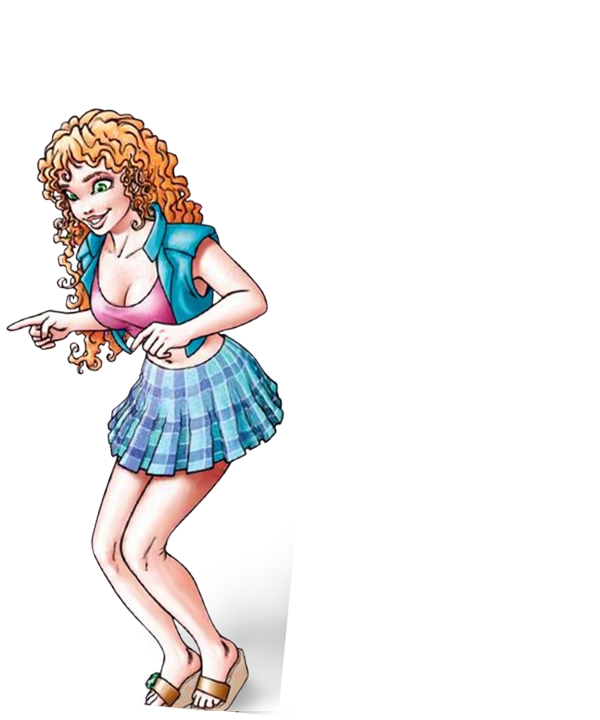
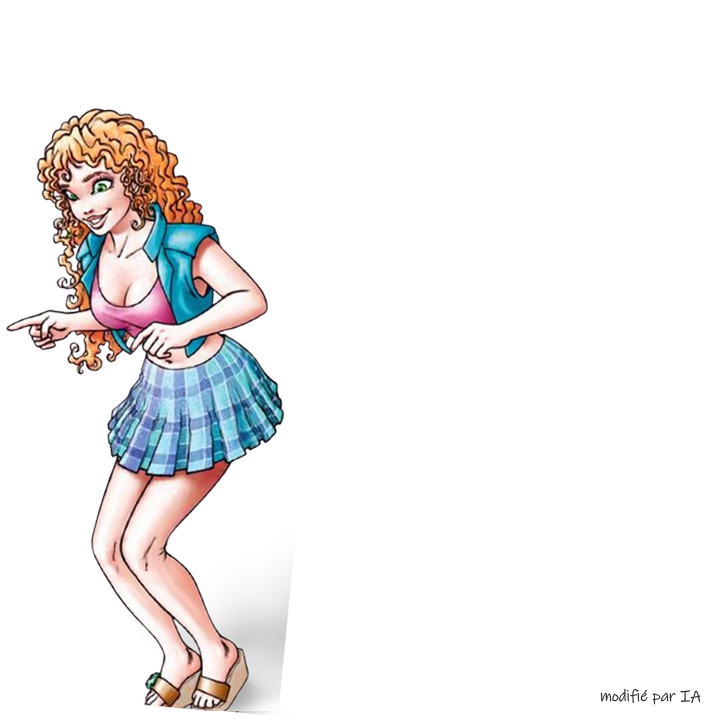
Amélioration du tutoriel
- annotation des images originales ou générés par IA
- modification des textes
- traductions
- compteur de téléchargements

Changed region(s): [[0.0, 0.1528, 0.48, 1.0], [0.84, 0.9472, 0.99, 0.9778]]

diff --git a/Languages/eng.ts b/Languages/eng.ts
@@ -22,21 +22,9 @@
 <context>
     <name>ApikeyDialog</name>
     <message>
-        <source>Get an API Key</source>
-        <translation type="vanished">Get an API Key</translation>
-    </message>
-    <message>
-        <source>An API key can be obtained from a map provider (thunderforest, mapbox, esri...) as follows:&lt;br/&gt;</source>
-        <translation type="vanished">An API key can be obtained from a map provider (thunderforest, mapbox, esri...) as follows:&lt;br/&gt;</translation>
-    </message>
-    <message>
         <location filename="../Sources/Qml/Dialogs/ApikeyDialog.qml" line="23"/>
         <source>An API key can be obtained from a map provider (thunderforest, mapbox, esri...) as follows:</source>
         <translation>An API key can be obtained from a map provider (thunderforest, mapbox, esri...) as follows:</translation>
-    </message>
-    <message>
-        <source>- Go to the website.&lt;br/&gt;</source>
-        <translation type="vanished">- Go to the website.&lt;br/&gt;</translation>
     </message>
     <message>
         <location filename="../Sources/Qml/Dialogs/ApikeyDialog.qml" line="12"/>
@@ -131,10 +119,6 @@
         <source>- &lt;a href=&apos;https://bellaminettes.com/&apos;&gt;Bruno Bellamy&lt;/a&gt; for the pretty instructor of the tutorial.&lt;br/&gt;  (Temporarily without his permission, as long as the software is only used by 2 or 3 people).&lt;br/&gt;</source>
         <translation>- &lt;a href=&apos;https://bellaminettes.com/&apos;&gt;Bruno Bellamy&lt;/a&gt; for the pretty instructor of the tutorial.&lt;br/&gt;  (Temporarily without his permission, as long as the software is only used by 2 or 3 people).&lt;br/&gt;</translation>
     </message>
-    <message>
-        <source>- &lt;a href=&apos;https://bellaminettes.com/&gt;Bruno Bellamy&lt;/a&gt; for the pretty instructor of the tutorial.&lt;br/&gt;Temporarily without his permission, as long as the software is only used by 2 or 3 people.</source>
-        <translation type="vanished">- &lt;a href=&apos;https://bellaminettes.com/&gt;Bruno Bellamy&lt;/a&gt; for the pretty instructor of the tutorial.&lt;br/&gt;Temporarily without his permission, as long as the software is only used by 2 or 3 people.</translation>
-    </message>
 </context>
 <context>
     <name>GlobalTag</name>
@@ -160,10 +144,6 @@
         <location filename="../Sources/Qml/Components/KeywordsRepeater.qml" line="27"/>
         <source>Apply to selection</source>
         <translation>Apply to selection</translation>
-    </message>
-    <message>
-        <source>Assign to selection</source>
-        <translation type="vanished">Apply to selection</translation>
     </message>
 </context>
 <context>
@@ -360,10 +340,6 @@
         <location filename="../Sources/Qml/Vues/PopupSettingsForm.ui.qml" line="216"/>
         <source>Map theme:</source>
         <translation>Map theme:</translation>
-    </message>
-    <message>
-        <source>Do not change EXIF tags</source>
-        <translation type="vanished">Do not change EXIF tags</translation>
     </message>
     <message>
         <location filename="../Sources/Qml/Vues/PopupSettingsForm.ui.qml" line="178"/>
@@ -580,61 +556,6 @@
 <context>
     <name>TutorialPopup</name>
     <message>
-        <source>Welcome to TiPhotoLocator!
-
-This short tutorial will guide you through the main features of the application.</source>
-        <translation type="vanished">Welcome to TiPhotoLocator!
-
-This short tutorial will guide you through the main features of the application.</translation>
-    </message>
-    <message>
-        <source>Open a folder
-
-Use File → Open to select a folder containing your photos.
-The photos will be analyzed and listed.</source>
-        <translation type="vanished">Open a folder
-
-Use &quot;File → Open&quot; to select a folder containing your photos.
-The photos will be analyzed and listed.</translation>
-    </message>
-    <message>
-        <source>Browse the list
-
-The photos are listed on the left side of the window.
-The pin marker indicates the photos that are already geolocalized.</source>
-        <translation type="vanished">Browse the list
-
-The photos are listed on the left side of the window.
-The pin marker indicates the photos that are already geolocalized.</translation>
-    </message>
-    <message>
-        <source>Geotag your photos
-
-Click on the map to assign a location to the selected photo.
-Soon, you will also be able to load a GPX track to geotag photos automatically.</source>
-        <translation type="vanished">Geotag your photos
-
-Click on the map to assign a location to the selected photo.
-Soon, you will also be able to load a GPX track to geotag photos automatically.</translation>
-    </message>
-    <message>
-        <source>Edit metadata of the different tabs
-
-Add keywords, titles, and captions to your photos.
-</source>
-        <translation type="vanished">Edit metadata of the different tabs
-
-Add keywords, titles, and captions to your photos.</translation>
-    </message>
-    <message>
-        <source>Save you changes
-
-A the end, hit Save to write the changes into the EXIF/IPTC data.</source>
-        <translation type="vanished">Save you changes
-
-Finally, hit &quot;Save&quot; to write the changes into the EXIF/IPTC data.</translation>
-    </message>
-    <message>
         <location filename="../Sources/Qml/Dialogs/TutorialPopup.qml" line="48"/>
         <source>Welcome to TiPhotoLocator!
 
@@ -659,24 +580,25 @@ The photos will be analyzed and listed.</translation>
         <source>Browse the list:
 
 The photos are listed on the left side of the window.
-The pin marker indicates the photos that are already geolocalized.</source>
+The red pin marker indicates the photos that are already geolocalized.</source>
         <translation>Browse the list:
 
 The photos are listed on the left side of the window.
-The pin marker indicates the photos that are already geolocalized.</translation>
+The red pin marker indicates the photos that are already geolocalized.</translation>
     </message>
     <message>
         <location filename="../Sources/Qml/Dialogs/TutorialPopup.qml" line="64"/>
         <source>Edit metadata of the different tabs:
 
-Add keywords, tags, and captions to your photos.
-</source>
+Select multiple photos with filter CHECKBOXES, the proximity CIRCLE, or simply with CTRL-CLIC.
+Add keywords, tags, and captions to your photos.</source>
         <translation>Edit metadata of the different tabs:
 
+Select multiple photos with filter CHECKBOXES, the proximity CIRCLE, or simply with CTRL-CLIC.
 Add keywords, tags, and captions to your photos.</translation>
     </message>
     <message>
-        <location filename="../Sources/Qml/Dialogs/TutorialPopup.qml" line="68"/>
+        <location filename="../Sources/Qml/Dialogs/TutorialPopup.qml" line="69"/>
         <source>Geotag your photos:
 
 Click on the map to assign a location to the selected photo.
@@ -687,7 +609,7 @@ Click on the map to assign a location to the selected photo.
 City, country, and location data are proposed automatically.</translation>
     </message>
     <message>
-        <location filename="../Sources/Qml/Dialogs/TutorialPopup.qml" line="74"/>
+        <location filename="../Sources/Qml/Dialogs/TutorialPopup.qml" line="75"/>
         <source>Save you changes!
 
 Finally, hit &apos;Save&apos; to write the changes into the EXIF/IPTC data.</source>
@@ -696,17 +618,17 @@ Finally, hit &apos;Save&apos; to write the changes into the EXIF/IPTC data.</sou
 Finally, hit &apos;Save&apos; to write the changes into the EXIF/IPTC data.</translation>
     </message>
     <message>
-        <location filename="../Sources/Qml/Dialogs/TutorialPopup.qml" line="168"/>
+        <location filename="../Sources/Qml/Dialogs/TutorialPopup.qml" line="169"/>
         <source>Close</source>
         <translation>Close</translation>
     </message>
     <message>
-        <location filename="../Sources/Qml/Dialogs/TutorialPopup.qml" line="175"/>
+        <location filename="../Sources/Qml/Dialogs/TutorialPopup.qml" line="176"/>
         <source>Next  ›</source>
         <translation>Next  ›</translation>
     </message>
     <message>
-        <location filename="../Sources/Qml/Dialogs/TutorialPopup.qml" line="175"/>
+        <location filename="../Sources/Qml/Dialogs/TutorialPopup.qml" line="176"/>
         <source>Done</source>
         <translation>Done</translation>
     </message>
@@ -763,10 +685,6 @@ Finally, hit &apos;Save&apos; to write the changes into the EXIF/IPTC data.</tra
         <location filename="../Sources/Qml/Vues/ZoneGlobalTagsForm.ui.qml" line="52"/>
         <source>They mainly contain technical information: camera model, lens...</source>
         <translation>They mainly contain technical information: camera model, lens...</translation>
-    </message>
-    <message>
-        <source>Apply to all</source>
-        <translation type="vanished">Apply to all</translation>
     </message>
     <message>
         <location filename="../Sources/Qml/Vues/ZoneGlobalTagsForm.ui.qml" line="63"/>

diff --git a/Languages/fre.ts b/Languages/fre.ts
@@ -22,21 +22,9 @@
 <context>
     <name>ApikeyDialog</name>
     <message>
-        <source>Get an API Key</source>
-        <translation type="vanished">Obtenir une API Key</translation>
-    </message>
-    <message>
-        <source>An API key can be obtained from a map provider (thunderforest, mapbox, esri...) as follows:&lt;br/&gt;</source>
-        <translation type="vanished">Une clef API peut être obtenue auprès d&apos;un fournisseur de cartes (thunderforest, mapbox, esri...), de la façon suivante:&lt;br/&gt;</translation>
-    </message>
-    <message>
         <location filename="../Sources/Qml/Dialogs/ApikeyDialog.qml" line="23"/>
         <source>An API key can be obtained from a map provider (thunderforest, mapbox, esri...) as follows:</source>
         <translation>Une clef API peut être obtenue auprès d&apos;un fournisseur de cartes (thunderforest, mapbox, esri...), de la façon suivante:</translation>
-    </message>
-    <message>
-        <source>- Go to the website.&lt;br/&gt;</source>
-        <translation type="vanished">- Se connecter sur le site.&lt;br/&gt;</translation>
     </message>
     <message>
         <location filename="../Sources/Qml/Dialogs/ApikeyDialog.qml" line="12"/>
@@ -131,14 +119,6 @@
         <source>- &lt;a href=&apos;https://bellaminettes.com/&apos;&gt;Bruno Bellamy&lt;/a&gt; for the pretty instructor of the tutorial.&lt;br/&gt;  (Temporarily without his permission, as long as the software is only used by 2 or 3 people).&lt;br/&gt;</source>
         <translation>- &lt;a href=&apos;https://bellaminettes.com/&apos;&gt;Bruno Bellamy&lt;/a&gt; pour la jolie instructrice du didacticiel.&lt;br/&gt;  (Temporairement sans sa permission, tant que logiciel n&apos;est utilisé que par 2 ou 3 personnes).&lt;br/&gt;</translation>
     </message>
-    <message>
-        <source>- &lt;a href=&apos;https://bellaminettes.com/&apos;&gt;Bruno Bellamy&lt;/a&gt; for the pretty instructor of the tutorial.&lt;br/&gt;Temporarily without his permission, as long as the software is only used by 2 or 3 people.</source>
-        <translation type="vanished">- &lt;a href=&apos;https://bellaminettes.com/&gt;Bruno Bellamy&lt;/a&gt; pour la jolie instructrice du didacticiel.&lt;br/&gt;Temporairement sans sa permission, tant que logiciel n&apos;est utilisé que par 2 ou 3 personnes.</translation>
-    </message>
-    <message>
-        <source>- &lt;a href=&apos;https://bellaminettes.com/&gt;Bruno Bellamy&lt;/a&gt; for the pretty instructor of the tutorial.&lt;br/&gt;Temporarily without his permission, as long as the software is only used by 2 or 3 people.</source>
-        <translation type="vanished">- &lt;a href=&apos;https://bellaminettes.com/&gt;Bruno Bellamy&lt;/a&gt; pour la jolie instructrice du didacticiel.&lt;br/&gt;Temporairement sans sa permission, tant que logiciel n&apos;est utilisé que par 2 ou 3 personnes.</translation>
-    </message>
 </context>
 <context>
     <name>GlobalTag</name>
@@ -164,10 +144,6 @@
         <location filename="../Sources/Qml/Components/KeywordsRepeater.qml" line="27"/>
         <source>Apply to selection</source>
         <translation>Appliquer à la sélection</translation>
-    </message>
-    <message>
-        <source>Assign to selection</source>
-        <translation type="vanished">Appliquer à la sélection</translation>
     </message>
 </context>
 <context>
@@ -350,10 +326,6 @@
         <location filename="../Sources/Qml/Vues/PopupSettingsForm.ui.qml" line="216"/>
         <source>Map theme:</source>
         <translation>Type de carte:</translation>
-    </message>
-    <message>
-        <source>Do not change EXIF tags</source>
-        <translation type="vanished">Ne pas modifier les tags EXIF</translation>
     </message>
     <message>
         <location filename="../Sources/Qml/Vues/PopupSettingsForm.ui.qml" line="178"/>
@@ -584,14 +556,6 @@
 <context>
     <name>TutorialPopup</name>
     <message>
-        <source>Welcome to TiPhotoLocator!
-
-This short tutorial will guide you through the main features of the application.</source>
-        <translation type="vanished">Bienvenue dans TiPhotoLocator!
-
-je vais vous donner en quelques mot les fontions principales de cette application.</translation>
-    </message>
-    <message>
         <location filename="../Sources/Qml/Dialogs/TutorialPopup.qml" line="48"/>
         <source>Welcome to TiPhotoLocator!
 
@@ -616,8 +580,8 @@ Les photos sont alors analysées et listées.</translation>
         <source>Browse the list:
 
 The photos are listed on the left side of the window.
-The pin marker indicates the photos that are already geolocalized.</source>
-        <translation>Parcourir la liste:
+The red pin marker indicates the photos that are already geolocalized.</source>
+        <translation>Parcourez la liste:
 
 Les photos sont listées à gauche de la fenêtre.
 Le marqueur rouge indique les photos qui sont déjà géolocalisées.</translation>
@@ -626,42 +590,45 @@ Le marqueur rouge indique les photos qui sont déjà géolocalisées.</translati
         <location filename="../Sources/Qml/Dialogs/TutorialPopup.qml" line="64"/>
         <source>Edit metadata of the different tabs:
 
-Add keywords, tags, and captions to your photos.
-</source>
-        <translation>Editer les métadonnées dans les différents onglets:
+Select multiple photos with filter CHECKBOXES, the proximity CIRCLE, or simply with CTRL-CLIC.
+Add keywords, tags, and captions to your photos.</source>
+        <translation>Editez les métadonnées dans les différents onglets:
 
-Ajoutez des mots-clefs, descriptions et annotations à vos photos, de façon unitaire ou groupée.</translation>
+Sélectionnez plusieurs photos en même temps grace aux FILTRES à cocher, au CERCLE de proximité géographique, ou simplement par CTRL-CLIC.
+Ajoutez des mots-clefs, descriptions et annotations à vos photos.</translation>
     </message>
     <message>
-        <location filename="../Sources/Qml/Dialogs/TutorialPopup.qml" line="68"/>
+        <location filename="../Sources/Qml/Dialogs/TutorialPopup.qml" line="69"/>
         <source>Geotag your photos:
 
 Click on the map to assign a location to the selected photo.
 City, country, and location data are proposed automatically.</source>
-        <translation type="unfinished">Geotaggez vos photos:
+        <translation>Geotaggez vos photos:
 
 Cliquez sur la carte pour assigner un emplacement aux photos sélectionnées.
 La ville, le pays, et des informations géographiques sont alors automatiquement proposées.</translation>
     </message>
     <message>
-        <location filename="../Sources/Qml/Dialogs/TutorialPopup.qml" line="74"/>
+        <location filename="../Sources/Qml/Dialogs/TutorialPopup.qml" line="75"/>
         <source>Save you changes!
 
 Finally, hit &apos;Save&apos; to write the changes into the EXIF/IPTC data.</source>
-        <translation type="unfinished"></translation>
+        <translation>Enregistrez les modifications!
+
+A la fin, cliquez sur &apos;Enregistrer &apos; pour écrire les métadonnées EXIF directement dans vos photos.</translation>
     </message>
     <message>
-        <location filename="../Sources/Qml/Dialogs/TutorialPopup.qml" line="168"/>
+        <location filename="../Sources/Qml/Dialogs/TutorialPopup.qml" line="169"/>
         <source>Close</source>
         <translation>Fermer</translation>
     </message>
     <message>
-        <location filename="../Sources/Qml/Dialogs/TutorialPopup.qml" line="175"/>
+        <location filename="../Sources/Qml/Dialogs/TutorialPopup.qml" line="176"/>
         <source>Next  ›</source>
         <translation>Suivant  ›</translation>
     </message>
     <message>
-        <location filename="../Sources/Qml/Dialogs/TutorialPopup.qml" line="175"/>
+        <location filename="../Sources/Qml/Dialogs/TutorialPopup.qml" line="176"/>
         <source>Done</source>
         <translation>Terminé</translation>
     </message>
@@ -718,10 +685,6 @@ Finally, hit &apos;Save&apos; to write the changes into the EXIF/IPTC data.</sou
         <location filename="../Sources/Qml/Vues/ZoneGlobalTagsForm.ui.qml" line="52"/>
         <source>They mainly contain technical information: camera model, lens...</source>
         <translation>Ils contiennent principalement des informations techniques: modèle d&apos;appareil, objectif...</translation>
-    </message>
-    <message>
-        <source>Apply to all</source>
-        <translation type="vanished">Appliquer à tous</translation>
     </message>
     <message>
         <location filename="../Sources/Qml/Vues/ZoneGlobalTagsForm.ui.qml" line="63"/>

diff --git a/Sources/Qml/Dialogs/TutorialPopup.qml b/Sources/Qml/Dialogs/TutorialPopup.qml
@@ -58,11 +58,12 @@ Popup {
             "text": qsTr(
                         "Browse the list:\n\n"
                         + "The photos are listed on the left side of the window.\n"
-                        + "The pin marker indicates the photos that are already geolocalized.")
+                        + "The red pin marker indicates the photos that are already geolocalized.")
         }, {
             "image": "qrc:/Tutorial/bellaminette-tabs.png",
             "text": qsTr("Edit metadata of the different tabs:\n\n"
-                         + "Add keywords, tags, and captions to your photos.\n")
+                         + "Select multiple photos with filter CHECKBOXES, the proximity CIRCLE, or simply with CTRL-CLIC.\n"
+                         + "Add keywords, tags, and captions to your photos.")
         }, {
             "image": "qrc:/Tutorial/bellaminette-map.png",
             "text": qsTr(

diff --git a/readme.md b/readme.md
@@ -34,6 +34,9 @@ Developpers can access to [doxygen documentation here](https://sphinkie.github.i
 
 Explanation concerning the compiler configuration are on [this page](./docs/compilation.md).
 
+Access to Tooomm [Download counter](https://tooomm.github.io/github-release-stats/?username=sphinkie&repository=TiPhotoLocator)
+
+
 
 ### Inspiration
 

diff --git a/Resources/Tutorial/readme.md b/Resources/Tutorial/readme.md
@@ -8,6 +8,6 @@ variantes par Consistant Character IA.
 
 - problemes de pied qui diparaissent, et autres...
 
-- Image PNG = W:600 H:720
+- Image PNG = W:720 H:720
 
 - Bellaminette:  Hauteur 650px  (voir proportions de: bellaminette-tabs.png)
